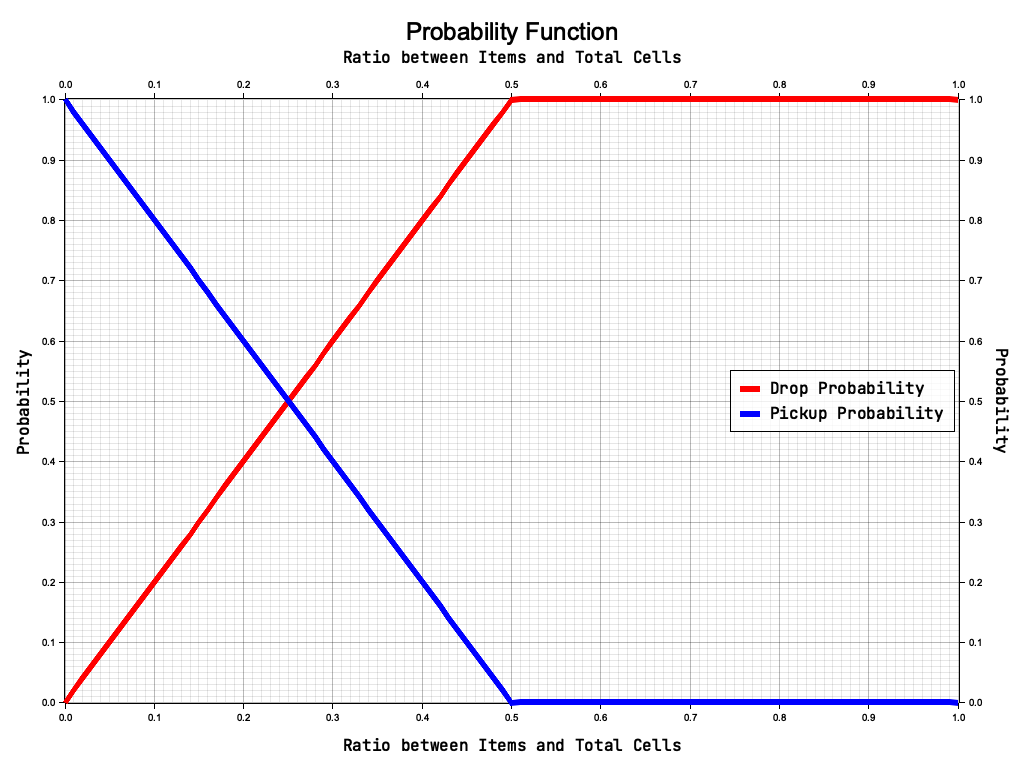
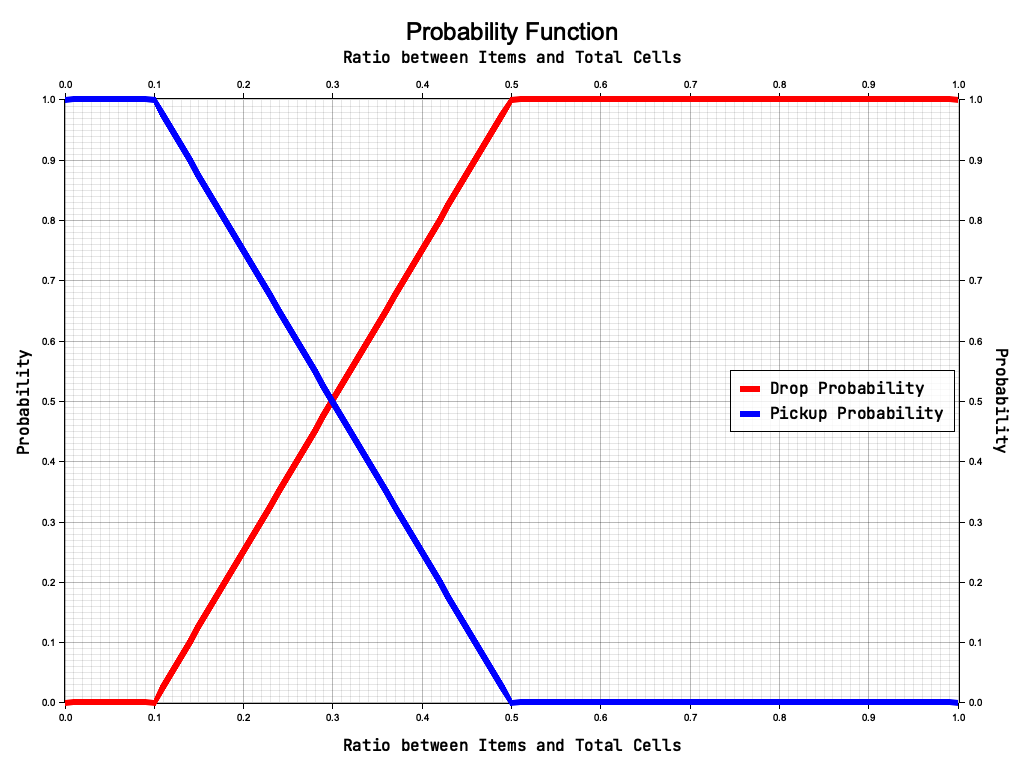
end probability

diff --git a/src/simulation/item/item.rs b/src/simulation/item/item.rs
@@ -138,11 +138,11 @@ pub fn item_position_update(
     }
 }
 
-pub fn print_on_pick(mut events: EventReader<PickingEvent>, query: Query<(&Item)>) {
+pub fn print_on_pick(mut events: EventReader<PickingEvent>, query: Query<&Item>) {
     for ev in events.iter() {
         match ev {
             PickingEvent::Clicked(entity) => {
-                let (item) = query.get(*entity).unwrap();
+                let item = query.get(*entity).unwrap();
                 info!("{:?}", item);
             }
             _ => (),

diff --git a/src/simulation/ant/prob.rs b/src/simulation/ant/prob.rs
@@ -1,13 +1,16 @@
 use plotters::prelude::*;
 
 pub fn pickup_probability(similarity: f64) -> f64 {
-    let k1 = 100. / 50.;
-    1. - (similarity * k1).min(1.0)
+    let k = 100. / 40.;
+    let p = similarity * k - 0.1 * k;
+    let p = 1. - p;
+    p.clamp(0.0, 1.0)
 }
 
 pub fn drop_probability(similarity: f64) -> f64 {
-    let k2 = 100. / 50.;
-    (similarity * k2).min(1.0)
+    let k = 100. / 40.;
+    let p = similarity * k - 0.1 * k;
+    p.clamp(0.0, 1.0)
 }
 
 pub fn draw_probability_function() {

diff --git a/src/dataset/mod.rs b/src/dataset/mod.rs
@@ -2,6 +2,7 @@ use bevy::prelude::*;
 
 mod data;
 
+use crate::consts::DATASET_PATH;
 pub use data::*;
 
 pub struct DatasetPlugin;
@@ -19,6 +20,6 @@ impl Plugin for DatasetPlugin {
 pub struct DatasetHandle(Handle<Dataset>);
 
 pub fn load_dataset(mut commands: Commands, asset_server: Res<AssetServer>) {
-    let handle = asset_server.load("dataset/dataset_04.txt");
+    let handle = asset_server.load(DATASET_PATH);
     commands.insert_resource(DatasetHandle(handle));
 }

diff --git a/src/consts.rs b/src/consts.rs
@@ -19,5 +19,10 @@ pub const ITEM_RADIUS: f32 = 0.2;
 // Light
 pub const SUN_DISTANCE: f32 = 9.0;
 
-// Probability
-pub const ALPHA: f64 = 10.0;
+// Dataset 04
+// pub const DATASET_PATH: &str = "dataset/dataset_04.txt";
+// pub const ALPHA: f64 = 10.0;
+
+// Dataset 15
+pub const DATASET_PATH: &str = "dataset/dataset_15.txt";
+pub const ALPHA: f64 = 1.5;
